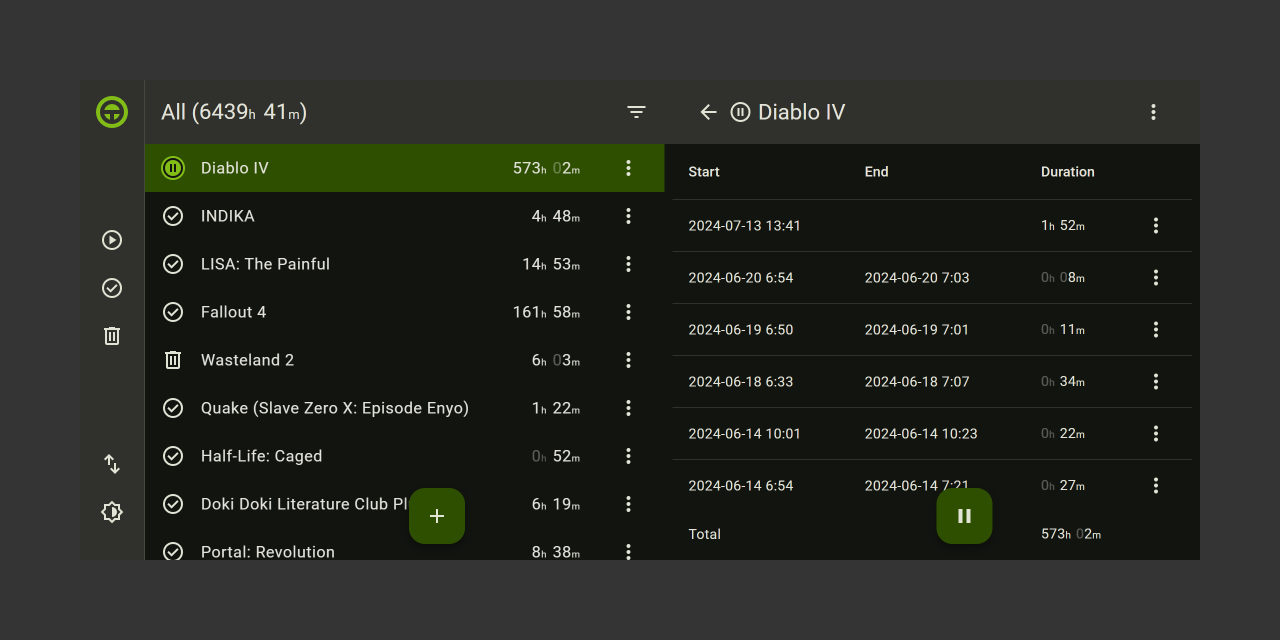
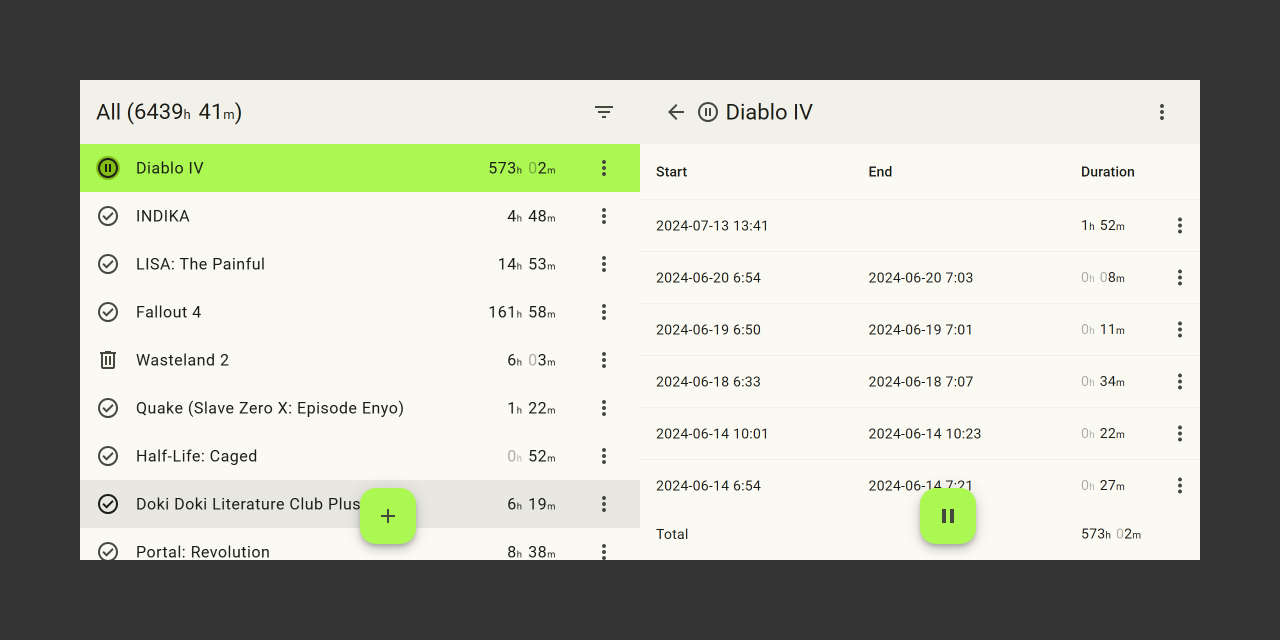
chore(screenshots): port screenshot generation to Playwright
- replace TestCafe-based screenshot script with Playwright browser automation

- keep deterministic capture helpers and regenerate screenshot.png/social.png

diff --git a/scripts/generate-screenshots.ts b/scripts/generate-screenshots.ts
@@ -1,47 +1,101 @@
 import { createCanvas, loadImage } from '@napi-rs/canvas';
+import type { Page } from '@playwright/test';
+import { chromium } from '@playwright/test';
 import { existsSync } from 'node:fs';
 import { writeFile } from 'node:fs/promises';
-import { fixture, Selector, test } from 'testcafe';
-import { app } from '../e2e/page-objects/app';
-import { mockDate } from '../e2e/utils';
 
 const TEST_DATA_URL =
   'https://gist.github.com/Klaster1/a456beaf5384924fa960790160286d8a/raw/83483f6179dfd13a63eca7afb62b5571ba6bf6e9/games.json';
+const SCREENSHOT_DATA_FILE = 'e2e/downloads/screenshot-data.json';
+const BASE_URL = process.env['SCREENSHOT_BASE_URL'] ?? 'http://localhost:4200/';
 
-fixture`Promo`.beforeEach(async (t) => {
-  await t.eval(() => {
-    const style = document.createElement('style');
-    style.id = 'visual-regression';
-    style.innerHTML = '.root-hammerhead-shadow-ui { display: none !important; }';
-    document.head.appendChild(style);
+const installScreenshotStabilizers = async (page: Page): Promise<void> => {
+  await page.addStyleTag({
+    content: `
+      *, *::before, *::after {
+        animation-duration: 0s !important;
+        animation-delay: 0s !important;
+        transition-duration: 0s !important;
+        transition-delay: 0s !important;
+        caret-color: transparent !important;
+      }
+      .cdk-overlay-backdrop {
+        transition: none !important;
+      }
+    `,
   });
-  if (!existsSync('e2e/downloads/screenshot-data.json')) {
-    const data = await fetch(TEST_DATA_URL).then((res) => res.text());
-    await writeFile('./e2e/downloads/screenshot-data.json', data, { encoding: 'utf-8' });
-  }
-  await t.click(app.buttonImportExport);
-  await t.setFilesToUpload(app.inputImport, ['../e2e/downloads/screenshot-data.json']);
-  await mockDate(new Date('2024-07-13T13:41:05'));
-  await t.pressKey('g t j s');
-  await mockDate(new Date('2024-07-13T15:33:44'));
-  await t.pressKey('esc');
-});
+};
 
-test('Readme screenshot', async (t) => {
-  const client = await t.getCurrentCDPSession();
-  const screenshot = async (theme: 'light' | 'dark') => {
-    await t.click(app.buttonSwitchTheme);
-    await t.click(app.buttonTheme.withText(theme === 'dark' ? 'Dark' : 'Light'));
-    await t.click(Selector('body'), { offsetX: 0, offsetY: 0 });
-    await t.click(Selector('body'), { offsetX: 0, offsetY: 0 });
+const waitForStableFrame = async (page: Page): Promise<void> => {
+  await page.waitForTimeout(120);
+  await page.evaluate(
+    () =>
+      new Promise((resolve) => {
+        requestAnimationFrame(() => requestAnimationFrame(resolve));
+      }),
+  );
+};
+
+const closeOverlays = async (page: Page): Promise<void> => {
+  await page.keyboard.press('Escape');
+  await page.waitForFunction(() => !document.querySelector('.cdk-overlay-backdrop-showing'));
+  await waitForStableFrame(page);
+};
+
+const pressCombo = async (page: Page, combo: string): Promise<void> => {
+  for (const key of combo.split(' ')) {
+    const mapped = key.toLowerCase() === 'esc' ? 'Escape' : key;
+    await page.keyboard.press(mapped);
+    await page.waitForTimeout(50);
+  }
+};
+
+const mockDate = async (page: Page, dateString: string): Promise<void> => {
+  const timestamp = new Date(dateString).valueOf();
+  await page.evaluate((ts: number) => {
+    Date.now = () => ts;
+  }, timestamp);
+};
+
+const ensureTestData = async (): Promise<void> => {
+  if (existsSync(SCREENSHOT_DATA_FILE)) return;
+  const data = await fetch(TEST_DATA_URL).then((res) => res.text());
+  await writeFile(SCREENSHOT_DATA_FILE, data, { encoding: 'utf-8' });
+};
+
+const importDataAndPrepare = async (page: Page): Promise<void> => {
+  await page.goto('/');
+  await installScreenshotStabilizers(page);
+  await page.locator('[data-e2e="navigation__button-import-export"]').click();
+  await page.locator('[data-e2e="navigation__input-import"]').setInputFiles(SCREENSHOT_DATA_FILE);
+
+  await mockDate(page, '2024-07-13T13:41:05');
+  await pressCombo(page, 'g t j s');
+  await mockDate(page, '2024-07-13T15:33:44');
+  await pressCombo(page, 'esc');
+};
+
+const createReadmeScreenshot = async (page: Page): Promise<void> => {
+  await page.setViewportSize({ width: 1920, height: 1080 });
+  await waitForStableFrame(page);
+
+  const screenshot = async (theme: 'dark' | 'light'): Promise<Buffer> => {
+    await page.evaluate(() => {
+      const button = document.querySelector('[data-e2e="navigation__button-theme"]');
+      button?.dispatchEvent(new MouseEvent('click', { bubbles: true, cancelable: true }));
+    });
+    await page.getByRole('menuitem', { name: theme === 'dark' ? 'Dark' : 'Light' }).click();
+    await closeOverlays(page);
 
     const scaling = 0.5;
-    await t.resizeWindow(2152 * scaling, 1278 * scaling);
-    const screenshot = await client.Page.captureScreenshot({
-      format: 'png',
+    await page.setViewportSize({
+      width: Math.round(2152 * scaling),
+      height: Math.round(1278 * scaling),
     });
-    return Buffer.from(screenshot.data, 'base64');
+    await waitForStableFrame(page);
+    return page.screenshot({ type: 'png' });
   };
+
   const dark = await loadImage(await screenshot('dark'));
   const light = await loadImage(await screenshot('light'));
   const canvas = createCanvas(dark.width, dark.height);
@@ -68,23 +122,24 @@ test('Readme screenshot', async (t) => {
   ctx.restore();
 
   const buffer = canvas.toBuffer('image/png');
-  await writeFile(`./screenshot.png`, buffer);
-});
+  await writeFile('./screenshot.png', buffer);
+};
 
-test('Open graph', async (t) => {
+const createSocialScreenshot = async (page: Page): Promise<void> => {
   const padding = 40;
   const width = 640;
   const height = 320;
   const scale = 2;
   const background = '#343434';
 
-  await t.resizeWindow(width * scale - padding * 2 * scale, height * scale - padding * 2 * scale);
-  await t.click(Selector('body'), { offsetX: 0, offsetY: 0 });
-  await t.click(Selector('body'), { offsetX: 0, offsetY: 0 });
-  const client = await t.getCurrentCDPSession();
-  const screenshot = await client.Page.captureScreenshot({
-    format: 'png',
+  await page.setViewportSize({
+    width: width * scale - padding * 2 * scale,
+    height: height * scale - padding * 2 * scale,
   });
+  await closeOverlays(page);
+  await waitForStableFrame(page);
+
+  const screenshot = await page.screenshot({ type: 'png' });
 
   const canvas = createCanvas(width * scale, height * scale);
   const ctx = canvas.getContext('2d');
@@ -92,7 +147,7 @@ test('Open graph', async (t) => {
   ctx.fillStyle = background;
   ctx.fillRect(0, 0, canvas.width, canvas.height);
   ctx.drawImage(
-    await loadImage(Buffer.from(screenshot.data, 'base64')),
+    await loadImage(screenshot),
     padding * scale,
     padding * scale,
     canvas.width - padding * 2 * scale,
@@ -100,5 +155,36 @@ test('Open graph', async (t) => {
   );
 
   const buffer = canvas.toBuffer('image/png');
-  await writeFile(`./social.png`, buffer);
+  await writeFile('./social.png', buffer);
+};
+
+const main = async (): Promise<void> => {
+  await ensureTestData();
+
+  const browser = await chromium.launch({
+    headless: true,
+    args: ['--force-device-scale-factor=2'],
+  });
+
+  const context = await browser.newContext({
+    baseURL: BASE_URL,
+    viewport: { width: 1920, height: 1080 },
+    deviceScaleFactor: 2,
+  });
+
+  const page = await context.newPage();
+
+  try {
+    await importDataAndPrepare(page);
+    await createReadmeScreenshot(page);
+    await createSocialScreenshot(page);
+  } finally {
+    await context.close();
+    await browser.close();
+  }
+};
+
+main().catch((error) => {
+  console.error(error);
+  process.exitCode = 1;
 });